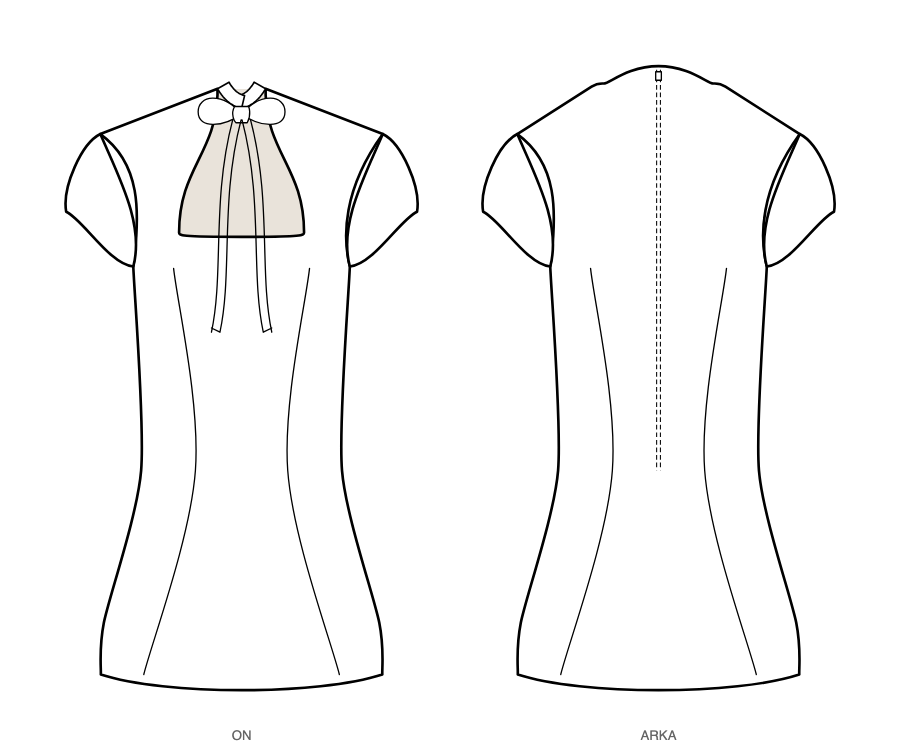
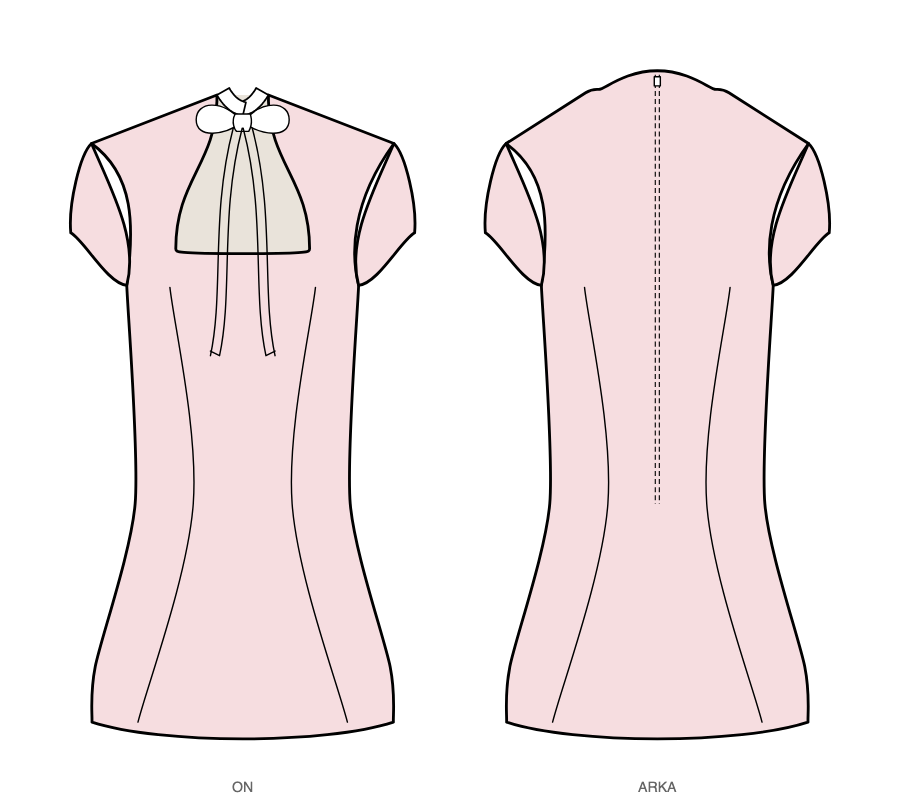
drawer: a flat carries the fabric colour; the sleeve joins the body

diff --git a/web/lib/siluet-ciz.js b/web/lib/siluet-ciz.js
@@ -194,7 +194,7 @@ function yakaYolu(orta, omuz, bicim, sag = true, kisalt = 0) {
 }
 
 // ---- bir gorunumun dis konturu (kapali yol) + aski / kol / ic ogeler
-function gorunumCiz(g, ad, kirmizi, oturma) {
+function gorunumCiz(g, ad, kirmizi, oturma, okumaRenk) {
   const K = {}; for (const k of Object.keys(g.kontur)) K[k] = g.kontur[k] ? nokta(g.kontur[k]) : null;
   const KS = {}; if (g.konturSol) for (const k of Object.keys(g.konturSol)) KS[k] = g.konturSol[k] ? nokta(g.konturSol[k]) : null;
   const sag = (k) => K[k], sol = (k) => (KS[k] !== undefined ? KS[k] : K[k]) && ayna(KS[k] !== undefined ? KS[k] : K[k]);
@@ -294,7 +294,12 @@ function gorunumCiz(g, ad, kirmizi, oturma) {
       svg += `<path d="${ao}" fill="${CIZ.tenDolgu ?? '#e9e3da'}" stroke="none" clip-path="url(#${kid})"/>\n`;
     }
   }
-  svg += `<path d="${d}" fill="#fff" stroke="#000" stroke-width="${CIZ.disKonturMM}" stroke-linejoin="round" stroke-linecap="round"/>\n`;
+  // KUMAS RENGI (12 Eyl, kok duzeltme): govde dolgusu SABIT BEYAZ'di; elbise pembe
+  // olsa da flat beyaz cikiyordu. Satici flat'leri renklidir: etsy-01 krem #fdf4e6,
+  // etsy-08 soluk pembe, Bugra "Locket Top" ayni flat'i ALTI kumasta basiyor.
+  // Renk okumadan gelir (g.renk ya da okuma.renk); yoksa beyaz.
+  const KUMAS = g.renk || (okumaRenk ?? null) || '#fff';
+  svg += `<path d="${d}" fill="${KUMAS}" stroke="#000" stroke-width="${CIZ.disKonturMM}" stroke-linejoin="round" stroke-linecap="round"/>\n`;
 
   // KOL (kapak / puf / duz) — govdenin ustune, beyaz dolgu
   const kolCiz = (kol, ou, ka, s) => {
@@ -316,10 +321,10 @@ function gorunumCiz(g, ad, kirmizi, oturma) {
       // balon govdesi: omuz ucu -> dis bombe -> manset dis ucu -> manset ic ucu -> koltukalti
       kd += ` C ${f1(ou.x + px * S * 1.1 - ux * L * 0.05)} ${f1(ou.y + py * S * 1.1 - uy * L * 0.05)} ${f1(dis.x + px * S * 0.9 - ux * L * 0.3)} ${f1(dis.y + py * S * 0.9 - uy * L * 0.3)} ${P(dis)}`;
       kd += ` L ${P(ic)} L ${P(ka)} C ${f1(ka.x - 6 * s)} ${f1(ka.y - (ka.y - ou.y) * 0.30)} ${f1(ou.x - (ou.x - ka.x) * 0.60)} ${f1(ou.y + (ka.y - ou.y) * 0.32)} ${P(ou)} Z`;
-      let out = `<path d="${kd}" fill="#fff" stroke="#000" stroke-width="${CIZ.disKonturMM}" stroke-linejoin="round" stroke-linecap="round"/>\n`;
+      let out = `<path d="${kd}" fill="${KUMAS}" stroke="#000" stroke-width="${CIZ.disKonturMM}" stroke-linejoin="round" stroke-linecap="round"/>\n`;
       // manset bandi: agiz cizgisinin altinda kapali dikdortgen (beyaz), kalin dis kontur
       const b1 = { x: dis.x + ux * bh, y: dis.y + uy * bh }, b2 = { x: ic.x + ux * bh, y: ic.y + uy * bh };
-      out += `<path d="M ${P(dis)} L ${P(ic)} L ${P(b2)} L ${P(b1)} Z" fill="#fff" stroke="#000" stroke-width="${CIZ.disKonturMM}" stroke-linejoin="round" stroke-linecap="round"/>\n`;
+      out += `<path d="M ${P(dis)} L ${P(ic)} L ${P(b2)} L ${P(b1)} Z" fill="${KUMAS}" stroke="#000" stroke-width="${CIZ.disKonturMM}" stroke-linejoin="round" stroke-linecap="round"/>\n`;
       out += `<path d="M ${P(dis)} L ${P(ic)}" fill="none" stroke="#000" stroke-width="${CIZ.icDikisMM}" stroke-linecap="round" stroke-linejoin="round"/>\n`;
       if (kol.buzgu) out += tikler([dis, ic], 12, 11, { x: -ux, y: -uy });
       if (kol.firfir) out += ogeCiz({ tip: 'firfir', adim: 9, derinlik: 5 }, [{ x: b1.x + ux * 5, y: b1.y + uy * 5 }, { x: b2.x + ux * 5, y: b2.y + uy * 5 }], s, {});
@@ -333,12 +338,12 @@ function gorunumCiz(g, ad, kirmizi, oturma) {
       kd += ` C ${f1(ou.x + (d2.x - ou.x) * 0.55)} ${f1(ou.y + (d2.y - ou.y) * 0.12)} ${f1(d2.x + (d2.x - ou.x) * 0.12)} ${f1(d2.y - (d2.y - ou.y) * 0.32)} ${P(d2)}`;
       kd += ` C ${f1(d2.x - (d2.x - ka.x) * 0.25)} ${f1(d2.y + 8)} ${f1(ka.x + (d2.x - ka.x) * 0.35)} ${f1(ka.y - 2)} ${P(ka)}`;
       kd += ` C ${f1(ka.x - 12 * s)} ${f1(ka.y - (ka.y - ou.y) * 0.32)} ${f1(ou.x - (ou.x - ka.x) * 0.55)} ${f1(ou.y + (ka.y - ou.y) * 0.32)} ${P(ou)} Z`;
-      return `<path d="${kd}" fill="#fff" stroke="#000" stroke-width="${CIZ.disKonturMM}" stroke-linejoin="round" stroke-linecap="round"/>\n`;
+      return `<path d="${kd}" fill="${KUMAS}" stroke="#000" stroke-width="${CIZ.disKonturMM}" stroke-linejoin="round" stroke-linecap="round"/>\n`;
     } else {
       kd += ` L ${P(dis)}`;
     }
     kd += ` L ${P(ic)} L ${P(ka)} Z`;
-    let out = `<path d="${kd}" fill="#fff" stroke="#000" stroke-width="${CIZ.disKonturMM}" stroke-linejoin="round" stroke-linecap="round"/>\n`;
+    let out = `<path d="${kd}" fill="${KUMAS}" stroke="#000" stroke-width="${CIZ.disKonturMM}" stroke-linejoin="round" stroke-linecap="round"/>\n`;
     if (kol.bant) { // agiz bandi: agiz cizgisine paralel ic cizgi
       const bh = kol.bantMM || 14, ux = ic.x - dis.x, uy = ic.y - dis.y, L = Math.hypot(ux, uy) || 1;
       const nx = uy / L * -bh * s, ny = -ux / L * -bh * s; // bant yukari (agizdan govde-ust yonune)
@@ -613,7 +618,7 @@ export function ciz(okuma) {
   }
   const kirmizi = [];
   const gorunumler = [['on', okuma.on], ['arka', okuma.arka]].filter(([, g]) => g);
-  const parcalar = gorunumler.map(([ad, g]) => ({ ad, ...gorunumCiz(g, ad, kirmizi, okuma.oturma) }));
+  const parcalar = gorunumler.map(([ad, g]) => ({ ad, ...gorunumCiz(g, ad, kirmizi, okuma.oturma, okuma.renk) }));
   const M = 70, W = Math.max(...parcalar.map((p) => p.w)) * 2 + M;
   const y0 = Math.min(...parcalar.map((p) => p.y0)) - M, y1 = Math.max(...parcalar.map((p) => p.y1)) + M;
   const H = y1 - y0, TW = W * parcalar.length + M;
